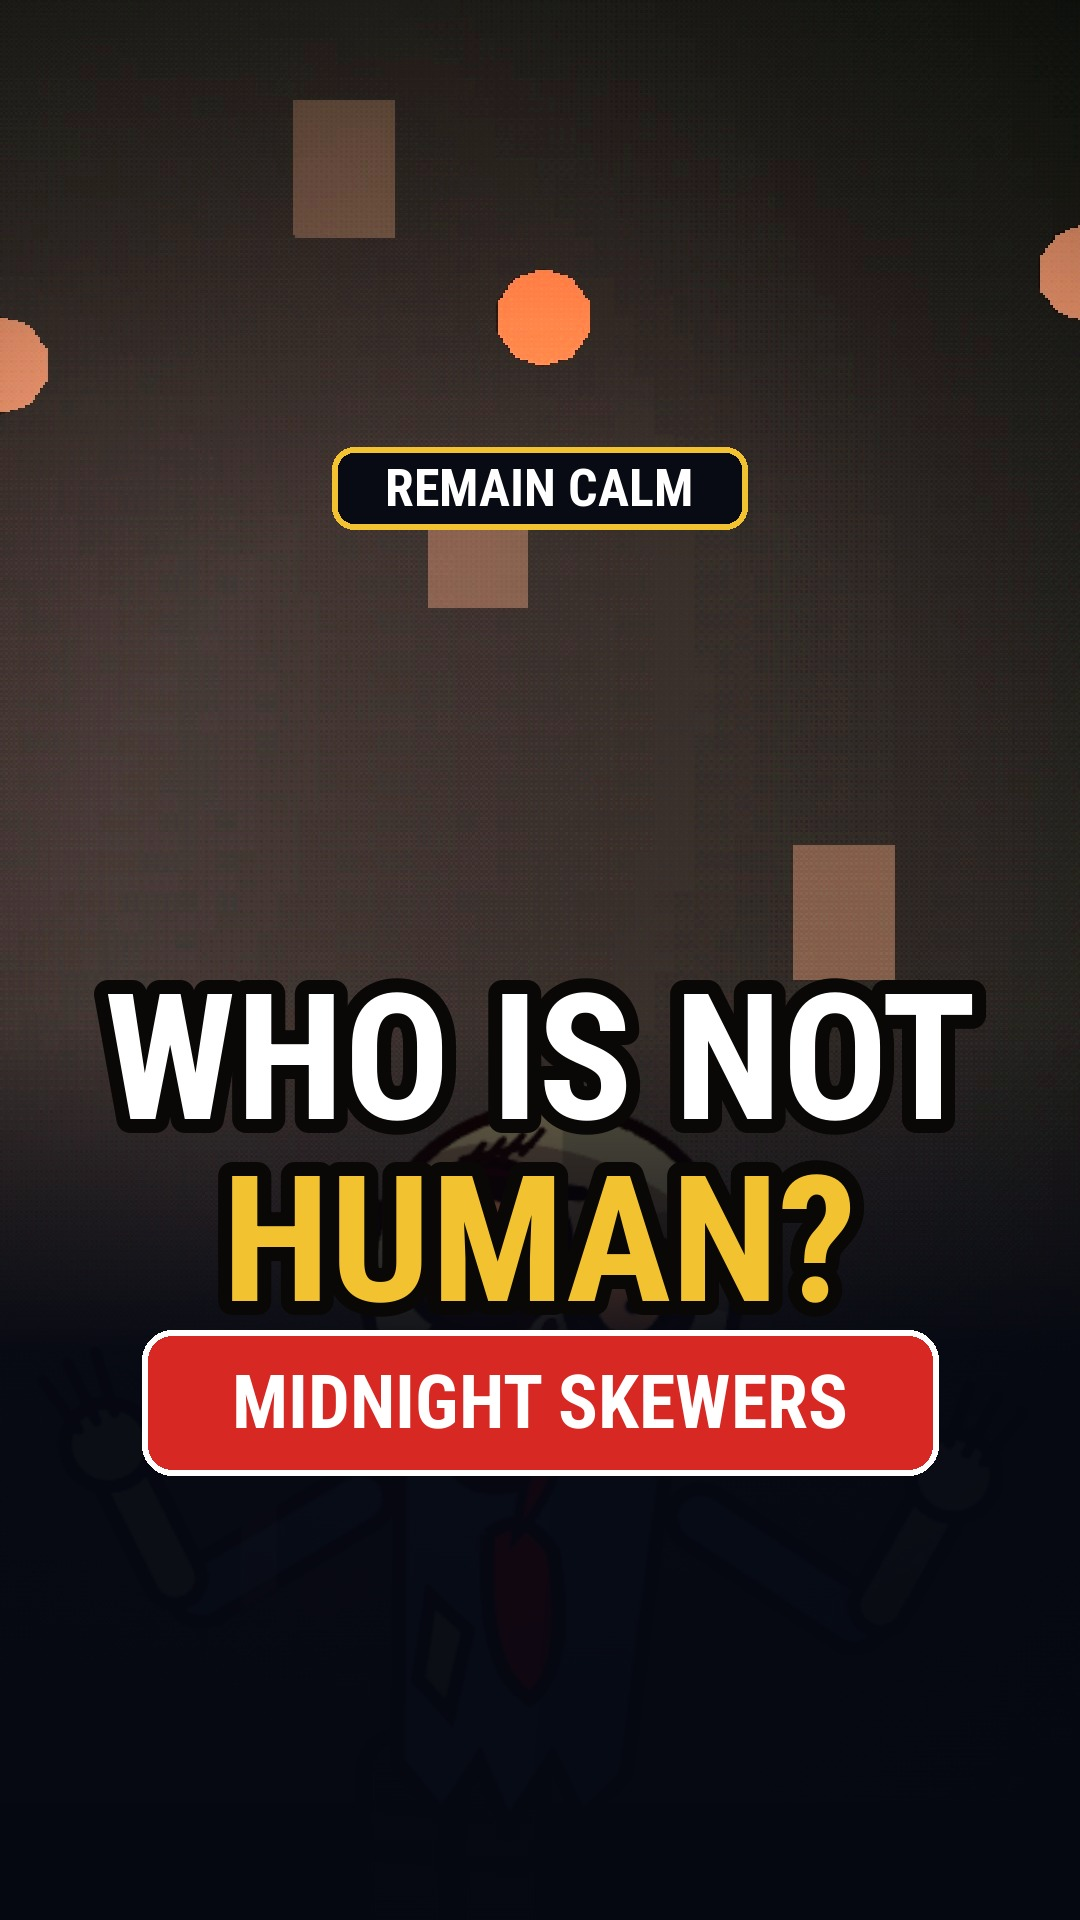
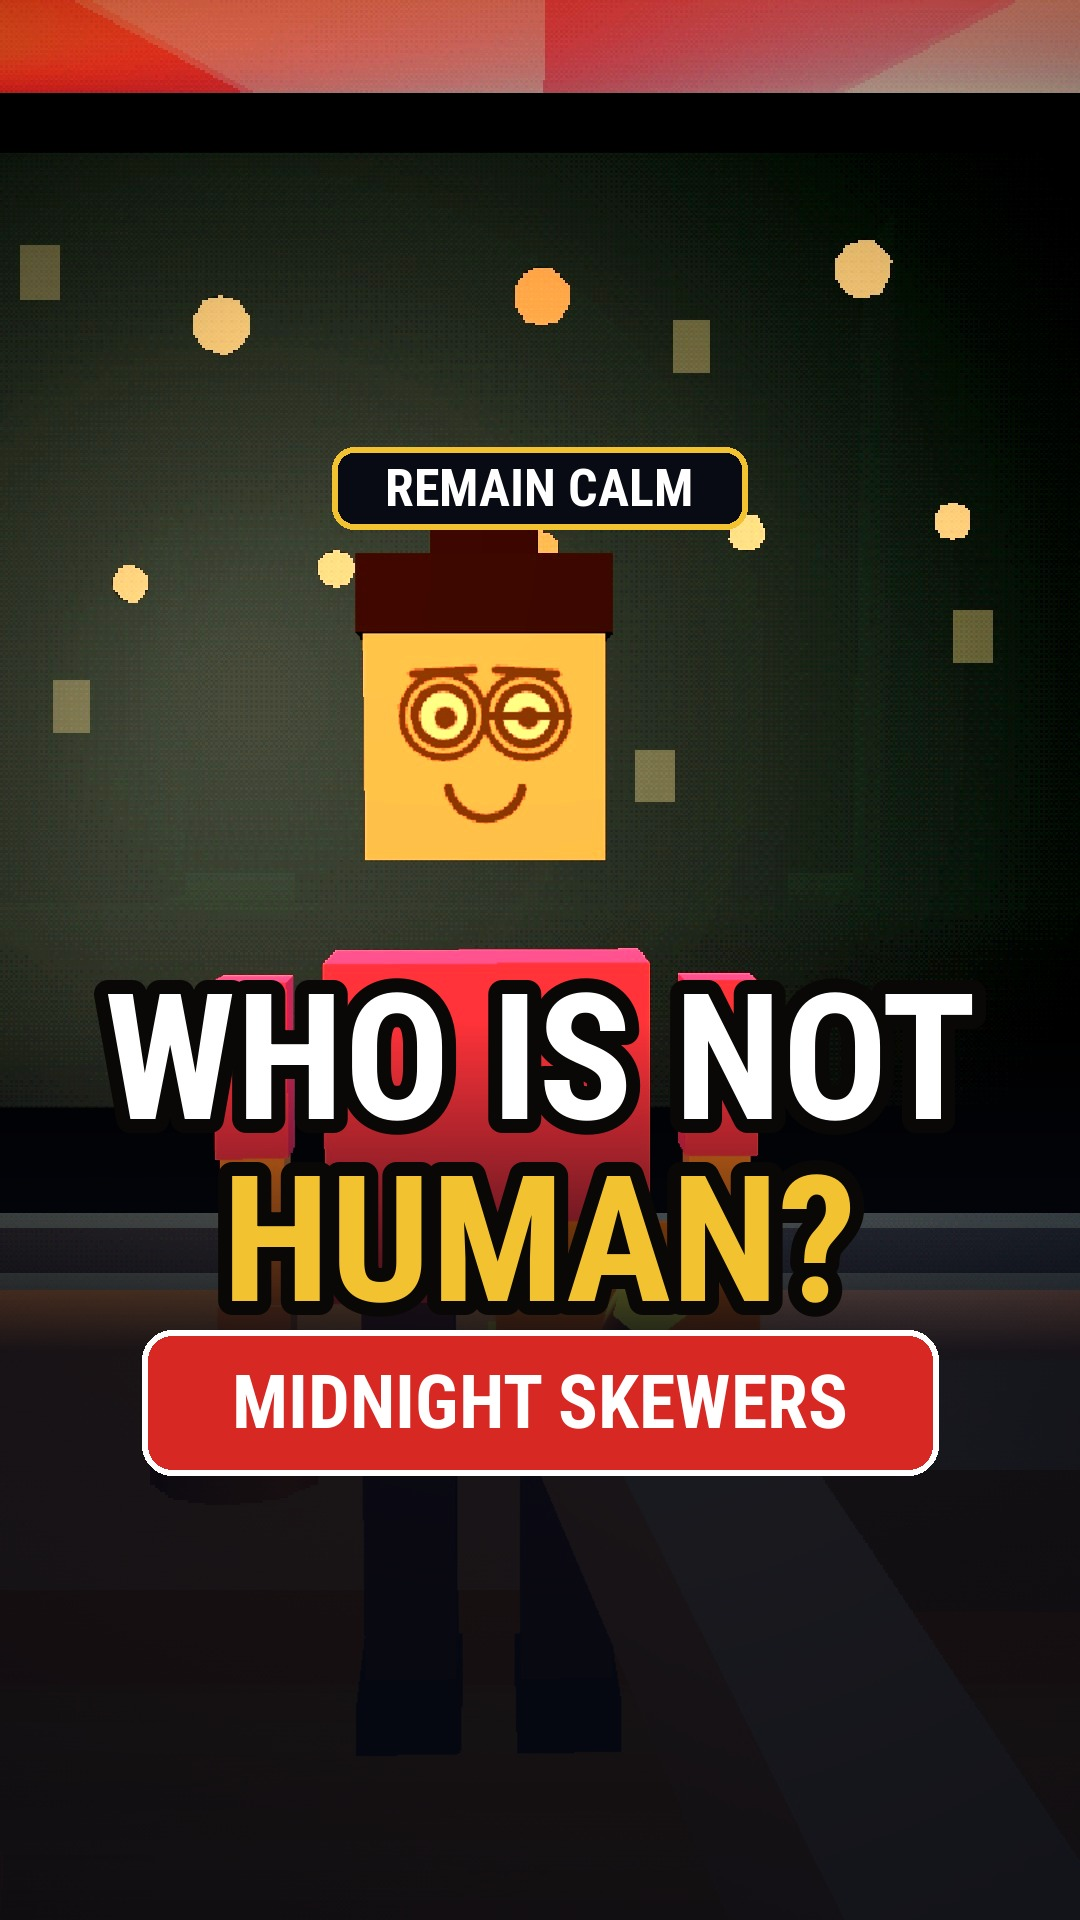
MIDNIGHT SKEWERS: 3D low-poly customers and first-person hands (work in progress)
Claude-Session: https://claude.ai/code/session_01AhwUxu1FBH8sDaZQZihRT9

diff --git a/studio/free3d/kiosk3d.js b/studio/free3d/kiosk3d.js
@@ -1,0 +1,66 @@
+// ===== low-poly 3D customers + first-person vendor hands for the MIDNIGHT SKEWERS set =====
+const P3={},P3CFG={
+ auntie3:{skin:'#c89468',shirt:'#d8508a',pants:'#4a3a5a',hair:'bun',hc:'#2a1a14',glasses:1,w:1.18,h:.92},
+ lad3:{skin:'#c8946a',shirt:'#3a9a4a',pants:'#22262e',hair:'cap',hc:'#2a6ab0',w:.9,h:.98},
+ uncle3:{skin:'#b88458',shirt:'#8a8a5a',pants:'#3a3a3a',hair:'bald',hc:'#000',stache:1,w:1.22,h:1.0},
+ girl3:{skin:'#e8c4a0',shirt:'#e8c82a',pants:'#d8b81a',hair:'messy',hc:'#1a1a1a',w:.8,h:.82},
+ zom3:{skin:'#8aa878',shirt:'#6a4a3a',pants:'#2a3a4a',hair:'spiky',hc:'#2a3a22',zombie:1,w:1.0,h:1.0}};
+function faceTex(cfg){const c=document.createElement('canvas');c.width=c.height=128;const t=new THREE.CanvasTexture(c);t.minFilter=t.magFilter=THREE.NearestFilter;return {c,t,cur:''}}
+function drawFace(F,cfg,expr){if(F.cur===expr)return;F.cur=expr;const x=F.c.getContext('2d');x.fillStyle=cfg.skin;x.fillRect(0,0,128,128);x.lineWidth=5;x.strokeStyle='#1a1008';x.lineJoin=x.lineCap='round';
+ const eye=(cx,cy,r,p)=>{x.fillStyle=cfg.zombie?'#d8e8a8':'#fff';x.beginPath();x.arc(cx,cy,r,0,7);x.fill();x.stroke();x.fillStyle='#1a1008';x.beginPath();x.arc(cx+1,cy+1,p,0,7);x.fill()};
+ const sc=expr==='shock'?1.25:1;if(cfg.zombie){x.fillStyle='rgba(30,10,30,.6)';x.beginPath();x.arc(42,52,22,0,7);x.arc(86,52,22,0,7);x.fill()}
+ eye(42,52,15*sc,6*(expr==='shock'?.7:1));eye(86,52,15*sc,6*(expr==='shock'?.7:1));
+ x.beginPath();if(expr==='worried'||cfg.zombie){x.moveTo(26,34);x.lineTo(56,28);x.moveTo(72,28);x.lineTo(102,34)}else{x.moveTo(26,30);x.lineTo(58,28);x.moveTo(70,28);x.lineTo(102,30)}x.stroke();
+ if(cfg.stache){x.fillStyle='#2a1a10';x.beginPath();x.ellipse(64,86,26,9,0,0,7);x.fill()}
+ if(cfg.zombie){x.fillStyle='#4a0808';x.beginPath();x.ellipse(64,98,26,16,0,0,7);x.fill();x.stroke();x.fillStyle='#e8e8c8';for(let i=0;i<5;i++)x.fillRect(42+i*9,86,6,9)}
+ else if(expr==='smile'){x.beginPath();x.arc(64,86,20,.2,Math.PI-.2);x.stroke()}
+ else if(expr==='shock'){x.fillStyle='#4a1010';x.beginPath();x.ellipse(64,98,12,16,0,0,7);x.fill();x.stroke()}
+ else{x.beginPath();x.moveTo(48,98);x.lineTo(80,98);x.stroke()}
+ if(cfg.glasses){x.lineWidth=4;x.beginPath();x.arc(42,52,22,0,7);x.arc(86,52,22,0,7);x.moveTo(64,52);x.lineTo(64,52);x.stroke()}
+ F.t.needsUpdate=true}
+function makePerson(cfg){const g=new THREE.Group(),M=c=>new THREE.MeshLambertMaterial({color:c}),sk=M(cfg.skin),sh=M(cfg.shirt),pa=M(cfg.pants);
+ const bx=(w,h,d,m,x,y,z,par)=>{const o=new THREE.Mesh(new THREE.BoxGeometry(w,h,d),m);o.position.set(x,y,z);(par||g).add(o);return o};
+ const body=new THREE.Group();g.add(body);const torso=bx(.52*cfg.w,.64,.3,sh,0,1.12,0,body);
+ const legs=[];for(const s of[-1,1]){const p=new THREE.Group();p.position.set(s*.13*cfg.w,.8,0);body.add(p);bx(.18,.8,.2,pa,0,-.4,0,p);bx(.2,.1,.3,M('#16161a'),0,-.82,.05,p);legs.push(p)}
+ const arms=[];for(const s of[-1,1]){const p=new THREE.Group();p.position.set(s*(.3*cfg.w+.1),1.4,0);body.add(p);bx(.14,.34,.14,sh,0,-.17,0,p);bx(.12,.3,.12,sk,0,-.49,0,p);bx(.14,.12,.14,sk,0,-.69,0,p);arms.push(p)}
+ const head=new THREE.Group();head.position.set(0,1.62,0);body.add(head);const F=faceTex(cfg);const fm=new THREE.MeshLambertMaterial({map:F.t});
+ const hb=new THREE.Mesh(new THREE.BoxGeometry(.44,.44,.42),[sk,sk,sk,sk,fm,M(cfg.hair==='bald'||cfg.zombie?cfg.skin:cfg.hc)]);hb.position.y=.24;head.add(hb);
+ if(cfg.hair==='bun'){bx(.46,.14,.44,M(cfg.hc),0,.5,0,head);bx(.2,.18,.2,M(cfg.hc),0,.6,-.05,head)}
+ else if(cfg.hair==='cap'){bx(.48,.16,.46,M(cfg.hc),0,.5,0,head);bx(.4,.05,.26,M(cfg.hc),0,.46,.3,head);bx(.5,.3,.12,M(cfg.hc),0,.36,-.24,head)}
+ else if(cfg.hair==='messy'){bx(.46,.12,.46,M(cfg.hc),0,.5,0,head);bx(.5,.3,.12,M(cfg.hc),0,.36,-.24,head);bx(.1,.16,.1,M(cfg.hc),.2,.6,0,head)}
+ else if(cfg.hair==='spiky'){for(let i=-2;i<=2;i++)bx(.08,.2+Math.abs(i)%2*.08,.08,M(cfg.hc),i*.09,.55,0,head);bx(.5,.3,.12,M(cfg.hc),0,.36,-.24,head)}
+ g.scale.setScalar(cfg.h);g.userData={dyn:1,parts:{body,torso,legs,arms,head,F,cfg}};
+ const bl=new THREE.Mesh(new THREE.CircleGeometry(.45*cfg.w,14),new THREE.MeshBasicMaterial({color:0,transparent:true,opacity:.45,depthWrite:false}));bl.rotation.x=-Math.PI/2;bl.position.y=.02;bl.userData.dyn=1;g.userData.blob=bl;
+ drawFace(F,cfg,'smile');g.visible=false;bl.visible=false;S.add(g);S.add(bl);return g}
+// first-person hands + items
+const HANDS={g:new THREE.Group(),arm:[],hand:[],items:{}};
+function buildHands(){const skin=new THREE.MeshLambertMaterial({color:'#c8946a'}),sleeve=new THREE.MeshLambertMaterial({color:'#e8e0d0'});
+ for(let i=0;i<2;i++){const a=new THREE.Mesh(new THREE.BoxGeometry(.085,.085,1),sleeve),h=new THREE.Group();const palm=new THREE.Mesh(new THREE.BoxGeometry(.13,.05,.15),skin);h.add(palm);for(let f=0;f<4;f++){const fi=new THREE.Mesh(new THREE.BoxGeometry(.025,.03,.09),skin);fi.position.set(-.045+f*.03,0,-.1);h.add(fi)}const th=new THREE.Mesh(new THREE.BoxGeometry(.04,.03,.07),skin);th.position.set(.08*(i?-1:1),0,-.03);h.add(th);HANDS.g.add(a);HANDS.g.add(h);HANDS.arm.push(a);HANDS.hand.push(h)}
+ const M=c=>new THREE.MeshLambertMaterial({color:c});
+ const sk=new THREE.Group();const st=new THREE.Mesh(new THREE.CylinderGeometry(.006,.006,.34,5),M('#c8a86a'));st.rotation.x=Math.PI/2;sk.add(st);for(let i=0;i<3;i++){const m=new THREE.Mesh(new THREE.BoxGeometry(.05,.04,.06),M(i%2?'#7a3a1a':'#8a4a22'));m.position.z=-.08+i*.075;sk.add(m)}sk.position.set(0,.02,-.12);sk.scale.setScalar(2.4);
+ const cup=new THREE.Group();const cm=new THREE.Mesh(new THREE.CylinderGeometry(.045,.035,.13,8),new THREE.MeshLambertMaterial({color:'#d8801a',transparent:true,opacity:.9}));cup.add(cm);const sr=new THREE.Mesh(new THREE.CylinderGeometry(.005,.005,.12,4),M('#d8342a'));sr.position.set(.015,.1,0);sr.rotation.z=-.2;cup.add(sr);cup.position.set(0,.08,-.06);cup.scale.setScalar(2.2);
+ const coin=new THREE.Mesh(new THREE.CylinderGeometry(.03,.03,.006,10),new THREE.MeshBasicMaterial({color:0xf0c030}));coin.rotation.x=Math.PI/2;coin.position.set(0,.04,-.08);coin.scale.setScalar(2.4);
+ HANDS.items={skewer:sk,tea:cup,coin};for(const k in HANDS.items){HANDS.items[k].visible=false;HANDS.hand[1].add(HANDS.items[k])}
+ HANDS.g.userData={dyn:1};HANDS.g.visible=false;S.add(HANDS.g)}
+// poses: hand targets in camera space (x right, y up, -z forward)
+const POSE={idle:[[-.26,-.34,-.55],[.26,-.34,-.55]],grill:[[-.42,-.36,-.95],[-.18,-.42,-.8]],give:[[-.26,-.34,-.55],[.04,-.22,-.95]],take:[[-.26,-.34,-.55],[.12,-.2,-.7]],refuse:[[-.22,-.06,-.85],[.22,-.06,-.85]],pour:[[-.26,-.34,-.55],[.3,-.08,-.75]]};
+function updateHands(sh,t,lt,cam){const hs=sh.hands;if(!hs||!hs.length){HANDS.g.visible=false;return}HANDS.g.visible=true;HANDS.g.position.copy(cam.position);HANDS.g.quaternion.copy(cam.quaternion);HANDS.g.updateMatrixWorld(true);
+ let cur=null;for(const s of hs)if(lt>=s.t0&&lt<s.t1){cur=s;break}
+ let a=POSE.idle,b=POSE.idle,k=0,item=null;if(cur){const m=Math.max(.001,cur.t1-cur.t0),u=(lt-cur.t0)/m;const up=Math.min(1,u/.3),dn=Math.min(1,(1-u)/.3);k=Math.min(up,dn);k=k*k*(3-2*k);b=POSE[cur.pose]||POSE.idle;item=cur.item||null}
+ const bob=Math.sin(t*1.6)*.004;
+ for(let i=0;i<2;i++){const p0=POSE.idle[i],p1=b[i];const tx=p0[0]+(p1[0]-p0[0])*k,ty=p0[1]+(p1[1]-p0[1])*k+bob,tz=p0[2]+(p1[2]-p0[2])*k;const sx=i?.3:-.3,sy=-.55,sz=.05;const dx=tx-sx,dy=ty-sy,dz=tz-sz,L=Math.hypot(dx,dy,dz);
+  const arm=HANDS.arm[i];arm.position.set((sx+tx)/2,(sy+ty)/2,(sz+tz)/2);arm.scale.z=L;arm.lookAt(HANDS.g.localToWorld(new THREE.Vector3(tx,ty,tz)));
+  const h=HANDS.hand[i];h.position.set(tx,ty,tz);h.rotation.set(i?-.25:-.1,0,0)}
+ for(const key in HANDS.items)HANDS.items[key].visible=!!(item&&key===item&&k>.05)}
+function update3D(sh,t,lt,dur,cam){for(const k in P3){P3[k].visible=false;P3[k].userData.blob.visible=false}
+ for(const c of (sh.p3||[])){const g=P3[c.who];if(!g)continue;g.visible=true;const pr=g.userData.parts;let x=c.pos[0],z=c.pos[1],mv=false;
+  if(c.to){const uu=Math.min(1,Math.max(0,(lt-(c.t0||0))/Math.max(.01,(c.t1||dur)-(c.t0||0))));const e=uu*uu*(3-2*uu);x=c.pos[0]+(c.to[0]-c.pos[0])*e;z=c.pos[1]+(c.to[1]-c.pos[1])*e;mv=uu>0&&uu<1}
+  g.position.set(x,0,z);let yaw;if(mv&&c.to)yaw=Math.atan2(c.to[0]-c.pos[0],c.to[1]-c.pos[1]);else if(c.face)yaw=Math.atan2(c.face[0]-x,c.face[1]-z);else yaw=Math.atan2(cam.position.x-x,cam.position.z-z);g.rotation.y=yaw;
+  const w=mv?Math.sin(t*7.5):0,br=c.still?0:Math.sin(t*1.8+x)*.012;pr.legs[0].rotation.x=w*.6;pr.legs[1].rotation.x=-w*.6;pr.arms[0].rotation.x=-w*.5;pr.arms[1].rotation.x=w*.5;
+  pr.body.position.y=mv?Math.abs(w)*.04:0;pr.torso.scale.y=1+br*1.5;pr.body.rotation.z=c.still?0:Math.sin(t*.9+x)*.01;
+  pr.head.rotation.x=0;pr.head.rotation.y=0;
+  // hand-over: right arm reaches to the vendor
+  const gv=c.give;if(gv&&lt>=gv.t0&&lt<gv.t1){const u=(lt-gv.t0)/(gv.t1-gv.t0),kk=Math.sin(Math.min(1,u)*Math.PI);pr.arms[1].rotation.x=-1.35*Math.min(1,kk*1.4)}
+  const gs=c.gesture;if(gs&&lt>=gs.t0&&lt<gs.t1){const u=(lt-gs.t0)/(gs.t1-gs.t0);pr.arms[0].rotation.x=-2.4*Math.min(1,Math.sin(u*Math.PI)*1.5);pr.arms[0].rotation.z=.2}
+  drawFace(pr.F,pr.cfg,c.expr||'calm');const bl=g.userData.blob;bl.visible=!c.noShadow;bl.position.set(x,.02,z)}}
+function buildPeople3D(){for(const k in P3CFG)P3[k]=makePerson(P3CFG[k]);buildHands()}

diff --git a/studio/free3d/store3.html b/studio/free3d/store3.html
@@ -7,6 +7,7 @@
 <script>const BG={};</script>
 <script src="overlay.js"></script>
 <script src="props.js"></script>
+<script src="kiosk3d.js"></script>
 <script>
 // REMAIN CALM - FRESHWAY 24H supermarket 3D set. Deterministic: renderAt(f) -> jpeg
 const Q=new URLSearchParams(location.search),W=+(Q.get('w')||540),H=+(Q.get('h')||960);const SF=W/540;const oc=document.createElement('canvas');oc.width=W;oc.height=H;const ctx=oc.getContext('2d',{willReadFrequently:true});
@@ -94,6 +95,7 @@ const lerp3=(a,b,t)=>a+(b-a)*t;
 const SNAP=new THREE.Vector2(Math.round(W*RQ*.55),Math.round(H*RQ*.55));
 function ps1(root){root.traverse(o=>{if(!o.isMesh||o.layers.mask===2)return;const ms=Array.isArray(o.material)?o.material:[o.material];ms.forEach(m=>{if(!m||m.userData.ps1||m.isShaderMaterial)return;m.userData.ps1=1;m.onBeforeCompile=sh=>{sh.uniforms.uSnap={value:SNAP};sh.vertexShader='uniform vec2 uSnap;\n'+sh.vertexShader.replace('#include <project_vertex>','#include <project_vertex>\n gl_Position.xy=(floor(gl_Position.xy/gl_Position.w*uSnap+.5)/uSnap)*gl_Position.w;')};m.needsUpdate=true})})}
 buildProps();
+buildPeople3D();
 ps1(S);
 const lowc=document.createElement('canvas');lowc.width=Math.round(W*RQ);lowc.height=Math.round(H*RQ);const lctx=lowc.getContext('2d',{willReadFrequently:true});
 const BAY=[0,8,2,10,12,4,14,6,3,11,1,9,15,7,13,5];
@@ -118,7 +120,7 @@ window.renderAt=f=>{const t=f/30,sp=SPEC;let sh=sp.shots[sp.shots.length-1];for(
  if(sh.card){ctx.setTransform(SF,0,0,SF,0,0);CARD[sh.card.type||'title'](ctx,sh.card,lt);titleBar(ctx,sp);drawCaptions(sh,t);drawIcons(sh,t)}
  else{const si=sp.shots.indexOf(sh);if(si!==LASTSHOT){prepareShot(sh);LASTSHOT=si}const u=ease(clamp(lt/dur)),c=sh.cam;cam.fov=sh.fov||38;cam.updateProjectionMatrix();
   cam.position.set(lerp(c[0][0],c[2][0],u),lerp(c[0][1],c[2][1],u),lerp(c[0][2],c[2][2],u));cam.lookAt(lerp(c[1][0],c[3][0],u),lerp(c[1][1],c[3][1],u),lerp(c[1][2],c[3][2],u));cam.position.x+=Math.sin(t*1.7)*.006;cam.position.y+=Math.sin(t*2.3)*.005;cam.updateMatrixWorld();
-  if(!BEAM)makeBeam();BEAM.piv.visible=false;BEAM.sp.visible=false;for(const k in PEOPLE){PEOPLE[k].visible=false;BLOB[k].visible=false}
+  if(!BEAM)makeBeam();BEAM.piv.visible=false;BEAM.sp.visible=false;for(const k in PEOPLE){PEOPLE[k].visible=false;BLOB[k].visible=false}update3D(sh,t,lt,dur,cam);updateHands(sh,t,lt,cam);
   for(const ch of (sh.chars||[])){const g=PEOPLE[ch.who];g.visible=true;let x=ch.pos[0],z=ch.pos[1],act=ch.act||'idle',yawTo=null,mv=false;
    if(ch.to){const uu=ease(clamp((lt-(ch.t0||0))/Math.max(.01,(ch.t1||dur)-(ch.t0||0))));x=lerp(ch.pos[0],ch.to[0],uu);z=lerp(ch.pos[1],ch.to[1],uu);if(uu>0&&uu<1){act=ch.act||'walk';mv=true}yawTo=Math.atan2(ch.to[0]-ch.pos[0],ch.to[1]-ch.pos[1])}
    g.position.set(x,0,z);BLOB[ch.who].visible=!ch.noShadow;BLOB[ch.who].position.set(x,.025,z);let yaw=yawTo!=null&&act!=='idle'?yawTo:(ch.face?Math.atan2(ch.face[0]-x,ch.face[1]-z):Math.atan2(cam.position.x-x,cam.position.z-z)-(ch.yawOff||0));g.rotation.y=yaw;

diff --git a/studio/free3d/episodes/batch.py b/studio/free3d/episodes/batch.py
@@ -212,3 +212,27 @@ ep('ks1','NIGHT 1',[
  CARD('NEXT NIGHT',['3 CUSTOMERS','1 IS NOT HUMAN','COMMENT WHICH ONE'],L('vendor',"Next night. Which one isn't human?"),min=6.0,sfx=[[.3,'click'],[1.5,'click'],[2.7,'click']])])
 EPS['ks1']['series']='MIDNIGHT SKEWERS';EPS['ks1']['blip']=True
 for _s in EPS['ks1']['shots']:_s['typed']=True
+
+# ---- ks1 v4: real first-person game POV: 3D low-poly customers, the player's own hands cook / pour / hand over / refuse ----
+K3=CAM([KX,1.6,KZ-.7],[KX,1.3,KZ+2.8])
+KFACE3=CAM([KX,1.72,KZ+.9],[KX,1.86,KZ+2.6])
+def P(who,x=.1,e='smile',**k):return dict(who=who,pos=[KX+x,KZ+2.6],expr=e,**k)
+def W(who,x0,e):return dict(who=who,pos=[KX+x0,KZ+2.6],to=[KX+.1,KZ+2.6],t0=0,t1=2.2,expr=e)
+OB=lambda what,n=1,label=None:dict(k='order',what=what,n=n,label=label,t0=.6,t1=9,x=.76,y=.30,s=1.3)
+ep('ks1','NIGHT 1',[
+ CARD('NIGHT SHIFT RULES',['REAL CUSTOMERS LOOK AT YOU','SERVE THEM','REFUSE ANYONE ELSE'],L('vendor',"Real customers look at you. Serve them. Refuse anyone else."),min=7.0,sfx=[[.3,'click'],[1.9,'click'],[3.5,'click']]),
+ S(K3,[],[],'CUSTOMER 1 · ARRIVES',fov=55,grade='warm',min=2.4,p3=[W('auntie3',4.6,'smile')],hands=[],sfx=[[.3,'foot'],[.9,'foot'],[1.5,'foot']]),
+ S(K3,[],[L('auntie',"Ten pork skewers, please. My husband loves them.")],'ORDER: 10 PORK SKEWERS',fov=55,grade='warm',min=5.2,p3=[P('auntie3',.1,'smile')],hands=[],icons=[OB('skewer',1,'x10')]),
+ S(GRILL,[],[L('vendor',"Coming up.")],'COOKING',fov=44,grade='warm',min=5.6,hands=[dict(pose='grill',item='skewer',t0=.6,t1=5.2)],sfx=[[0,'whoosh'],[.4,'sizzle'],[2.8,'sizzle']],cues=[dict(t=0,type='motif',detune=.3,level=.14)]),
+ S(K3,[],[L('auntie',"Smells wonderful. Thank you, dear."),L('vendor',"Serve.")],'HANDING OVER',fov=55,grade='warm',min=6.2,p3=[P('auntie3',.1,'smile',give=dict(t0=1.4,t1=2.8))],hands=[dict(pose='give',item='skewer',t0=.1,t1=2.0),dict(pose='take',item='coin',t0=2.2,t1=3.4)],icons=[dict(k='stampS',t0=3.7,t1=9,x=.5,y=.5,s=1)],sfx=[[.9,'click'],[2.6,'chime']]),
+ S(K3,[],[],'CUSTOMER 2 · ARRIVES',fov=55,grade='warm',min=2.4,p3=[W('lad3',-4.6,'calm')],hands=[],sfx=[[.3,'foot'],[.9,'foot'],[1.5,'foot']]),
+ S(K3,[],[L('lad',"Iced tea, less sugar. I walked a long way.")],'ORDER: ICED TEA',fov=55,grade='warm',min=4.6,p3=[P('lad3',-.1,'calm')],hands=[],icons=[OB('tea')]),
+ S(JUG,[],[L('vendor',"One iced tea.")],'POURING',fov=44,grade='warm',min=3.8,hands=[dict(pose='pour',item='tea',t0=.3,t1=3.4)],sfx=[[.3,'splash'],[1.2,'click']]),
+ S(K3,[],[L('lad',"Keep the change."),L('vendor',"Serve.")],'HANDING OVER',fov=55,grade='warm',min=5.6,p3=[P('lad3',-.1,'smile',give=dict(t0=1.2,t1=2.6))],hands=[dict(pose='give',item='tea',t0=.1,t1=1.9)],icons=[dict(k='stampS',t0=3.1,t1=9,x=.5,y=.5,s=1)],sfx=[[1.2,'click'],[2.8,'chime']]),
+ S(K3,[],[],'CUSTOMER 3 · ARRIVES',fov=55,grade='dead',min=2.8,p3=[dict(who='girl3',pos=[KX+4.6,KZ+2.6],to=[KX+.1,KZ+2.6],t0=0,t1=2.4,face=[KX+.1,KZ+9],expr='smile',still=True,noShadow=True)],hands=[],cues=[dict(t=0,type='gate',dur=2.4)],sfx=[[.4,'foot'],[1.1,'foot'],[1.8,'foot']]),
+ S(K3,[],[L('girl',"Pork. No chili.")],'ORDER: PORK. NO CHILI.',fov=55,grade='dead',min=3.4,p3=[P('girl3',.1,'smile',face=[KX,KZ+9],still=True,noShadow=True)],hands=[],icons=[OB('skewer')],cues=[dict(t=0,type='tick'),dict(t=1.8,type='tick')]),
+ S(PUSH,[],[L('vendor',"She is facing away."),L('vendor',"Real customers look at you.")],'CUSTOMER 3 · ???',fov=55,grade='dead',min=6.4,p3=[P('girl3',.1,'smile',face=[KX,KZ+9],still=True,noShadow=True)],hands=[],sfx=[[.3,'heart'],[1.8,'heart']],cues=[dict(t=0,type='gate',dur=5.0),dict(t=.2,type='riser',dur=5.0,level=.3)]),
+ S(KFACE3,[],[L('vendor',"Refuse.")],'CUSTOMER 3 · REFUSED',fov=34,grade='alarm',min=3.8,lead=.05,p3=[P('zom3',.1,'calm')],hands=[dict(pose='refuse',t0=.1,t1=3.0)],icons=[dict(k='stampR',t0=.5,t1=9,x=.5,y=.8,s=.9)],sfx=[[0,'sting'],[.2,'groan']],cues=[dict(t=0,type='stinger',level=.8)]),
+ CARD('NEXT NIGHT',['3 CUSTOMERS','1 IS NOT HUMAN','COMMENT WHICH ONE'],L('vendor',"Next night. Which one isn't human?"),min=6.0,sfx=[[.3,'click'],[1.5,'click'],[2.7,'click']])])
+EPS['ks1']['series']='MIDNIGHT SKEWERS';EPS['ks1']['blip']=True
+for _s in EPS['ks1']['shots']:_s['typed']=True
